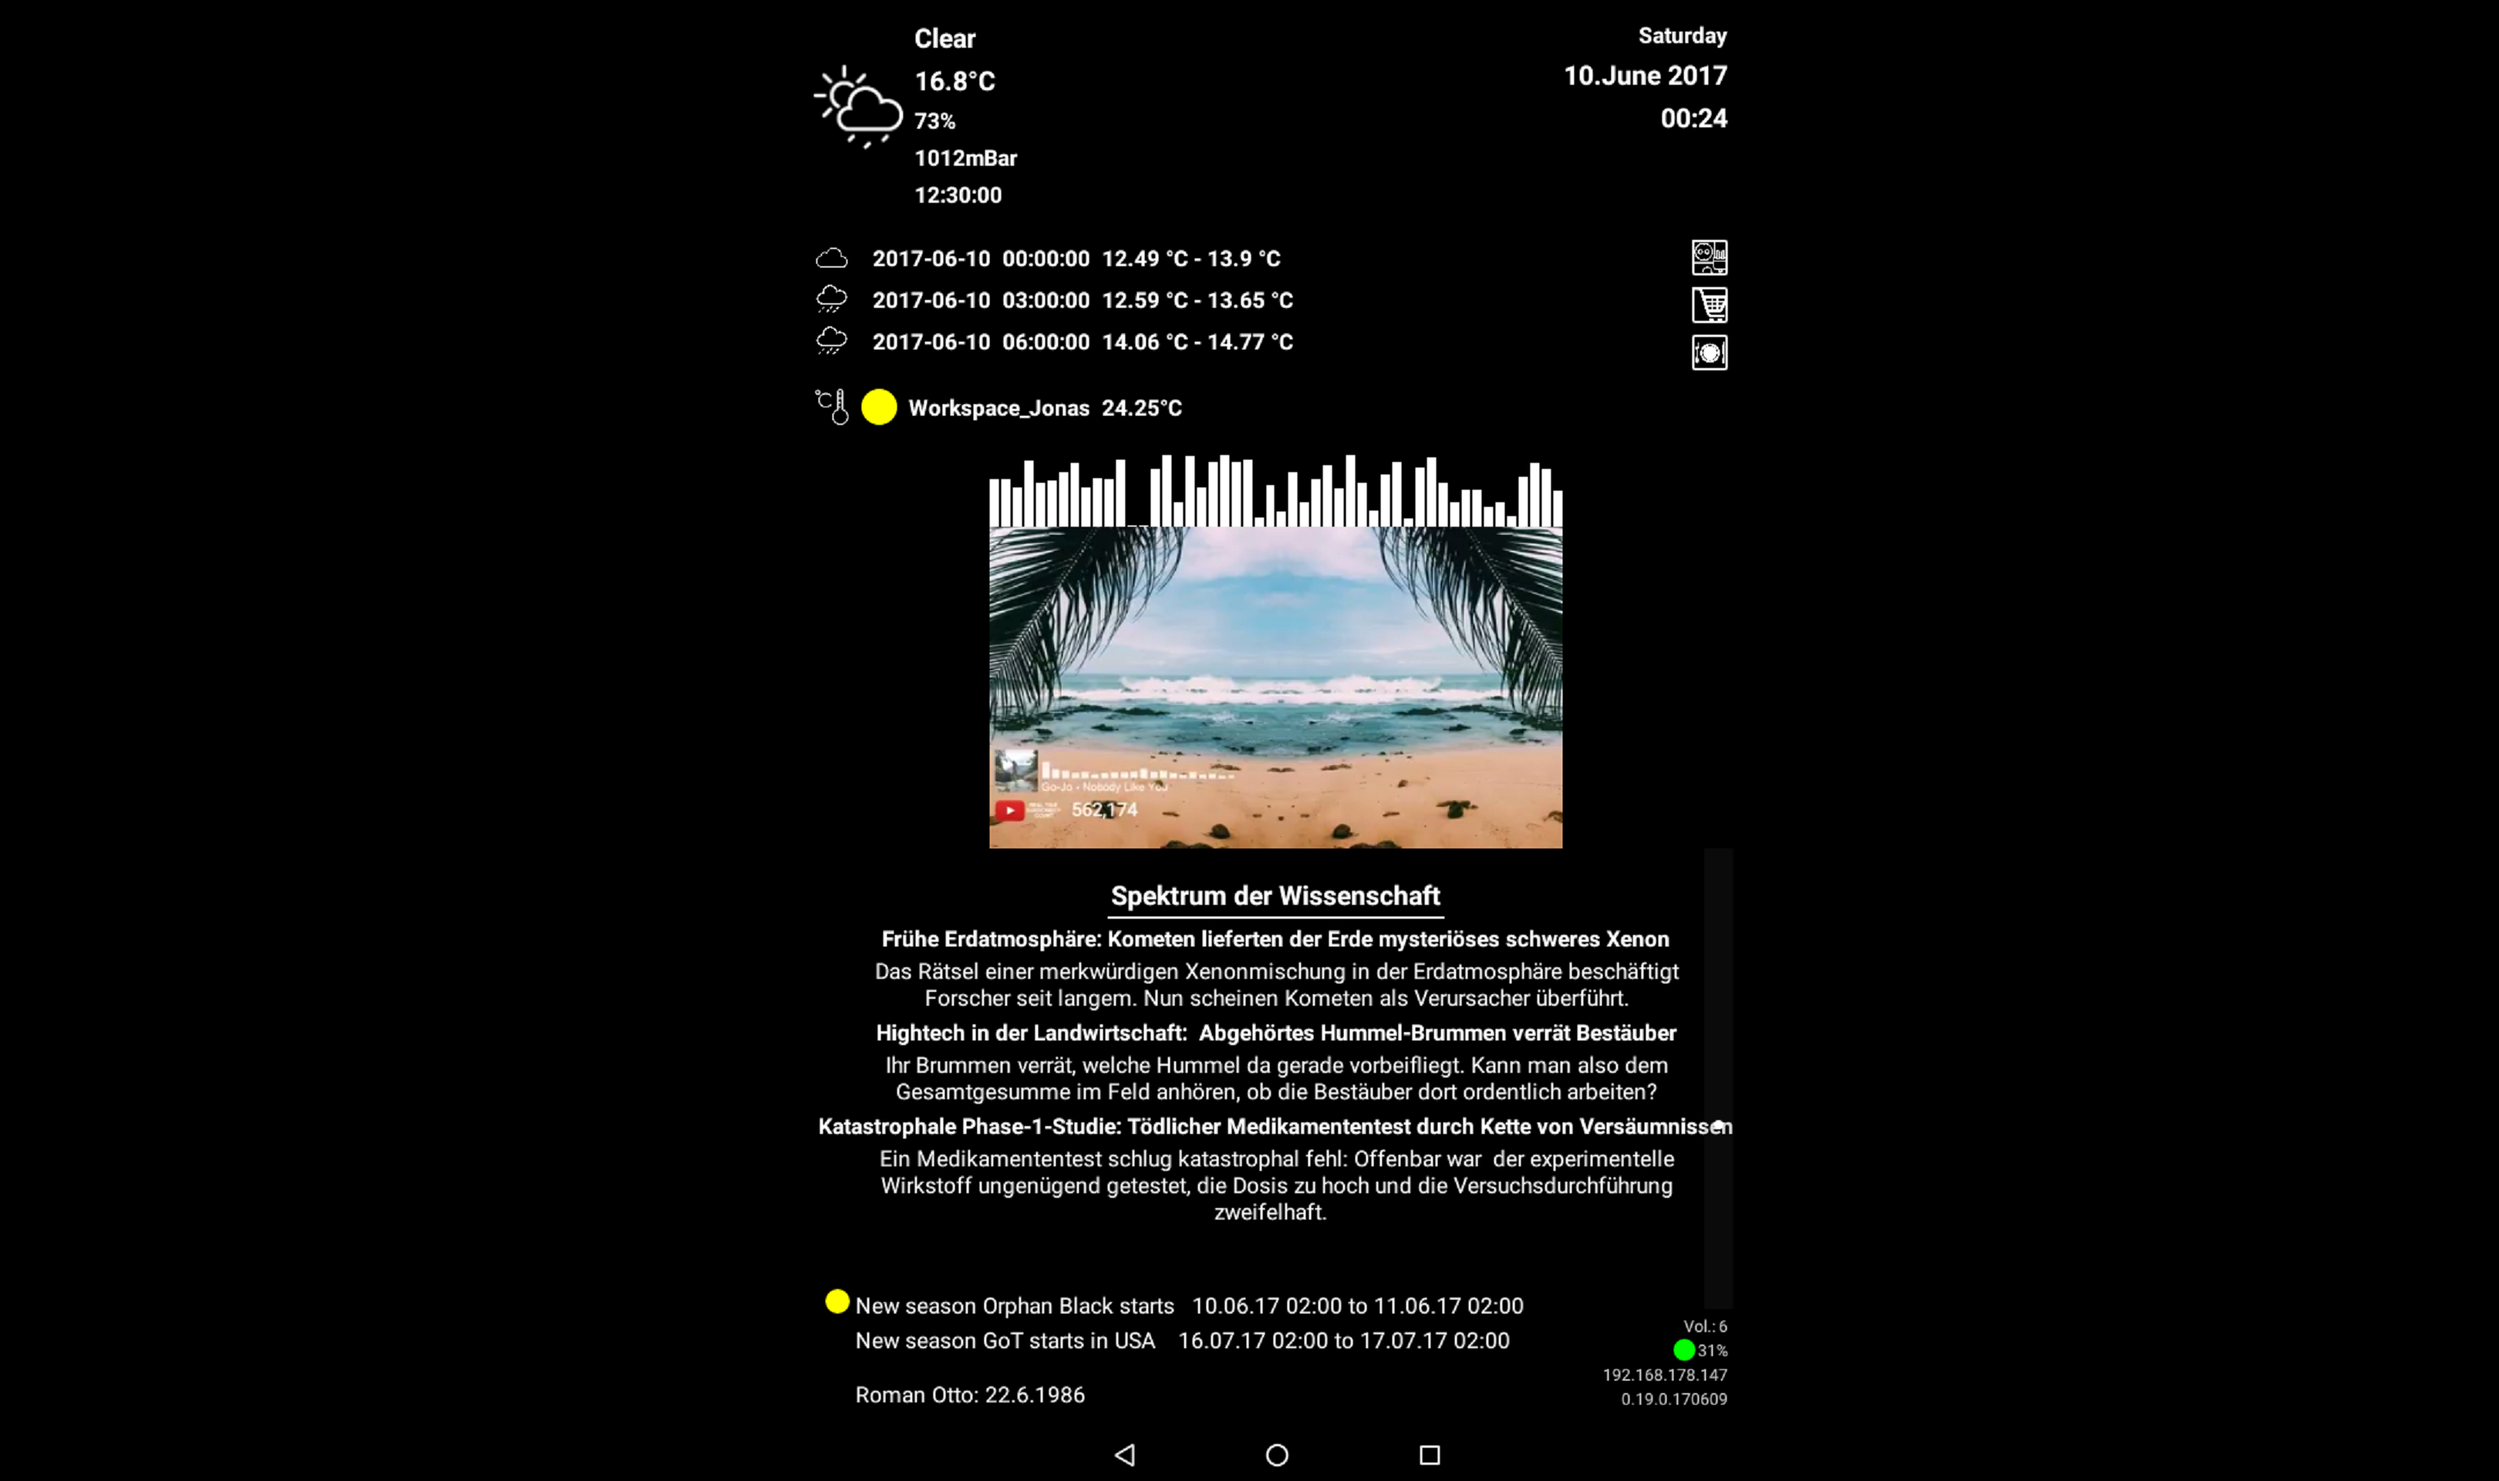
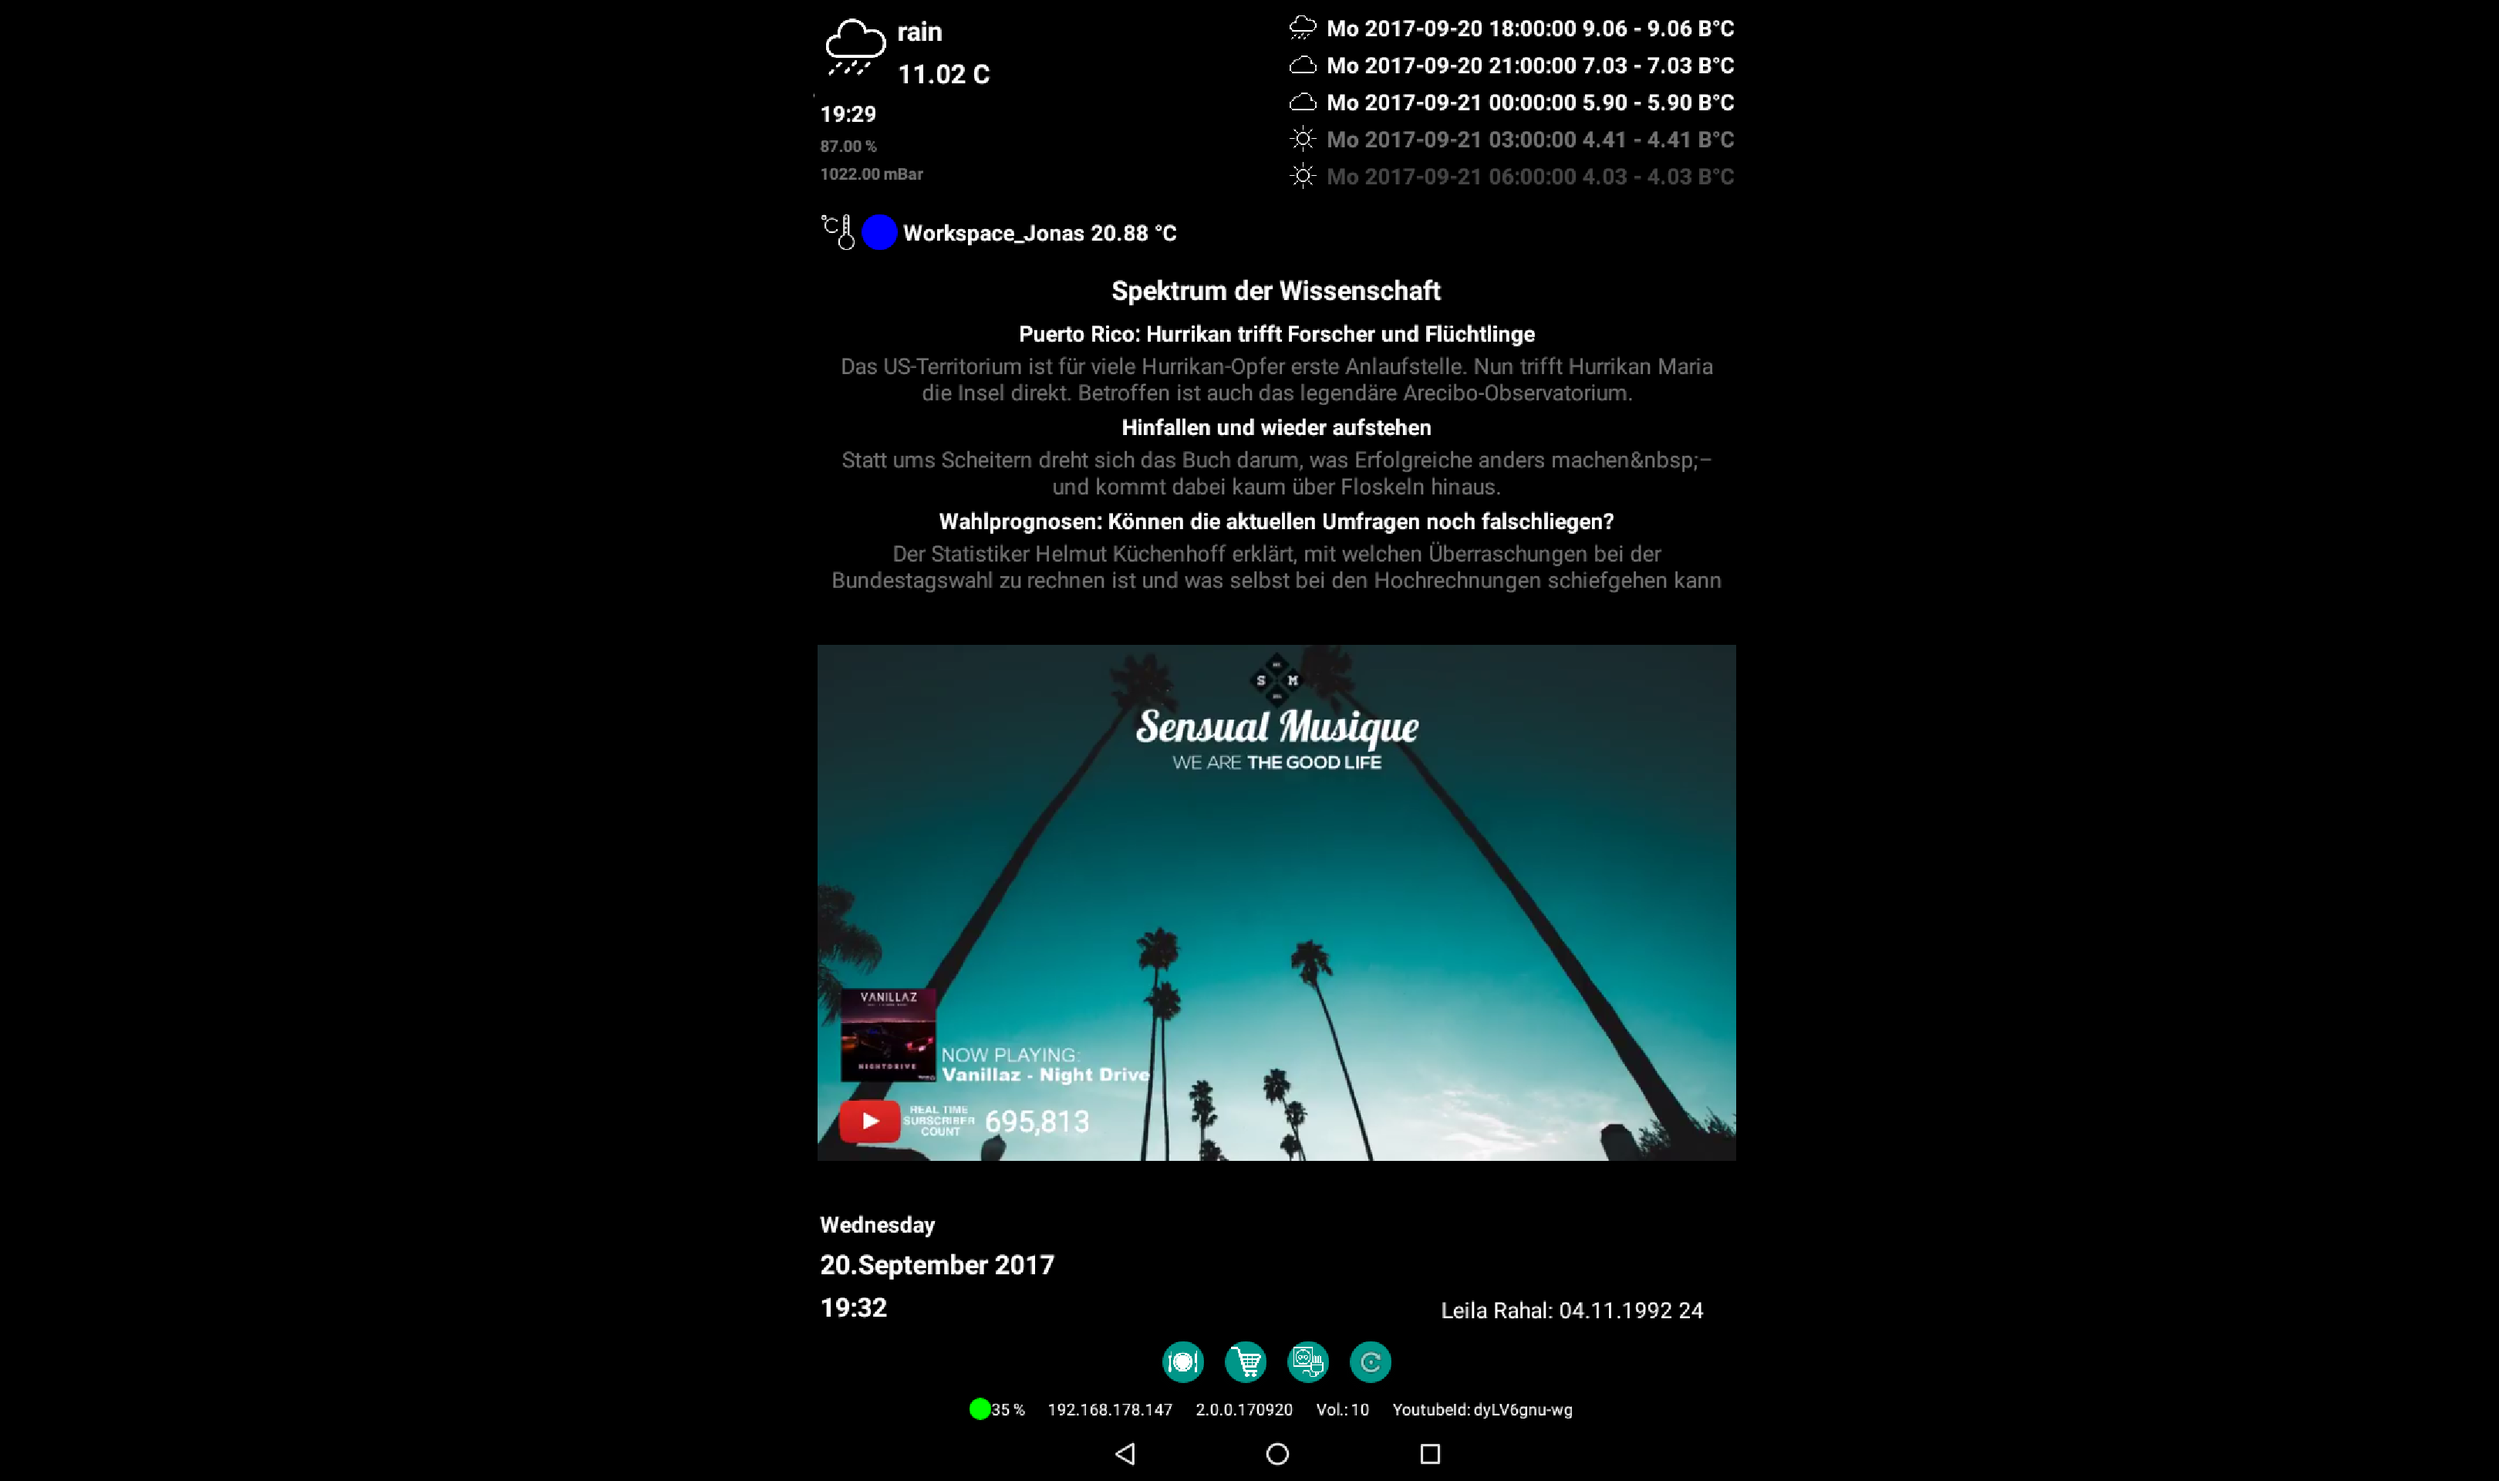
fixed list and image

Changed region(s): [[0.3117, 0.0, 0.717, 0.9688], [0.5299, 0.0, 0.717, 0.125], [0.5611, 0.9375, 0.6235, 0.9688]]

diff --git a/_posts/2017-09-20-merged-lucahome-android-application-and-mediamirror.md b/_posts/2017-09-20-merged-lucahome-android-application-and-mediamirror.md
@@ -14,8 +14,8 @@ date:   2017-09-20 19:45:00 +0200
 Due to shared modules of LucaHome Android Application and MediaMirror I merged both applications into one project by separated modules.
 I also updated the version to v2.0.0.170920.
 ChangeLog:
-	- Updated to API 26.0.1
-	- Updated to Android Studio 3 beta v6
-	- removed all game modules
-	- updated architecture
-	- new layout
+<li>Updated to API 26.0.1</li>
+<li>Updated to Android Studio 3 beta v6</li>
+<li>removed all game modules</li>
+<li>updated architecture</li>
+<li>new layout</li>
